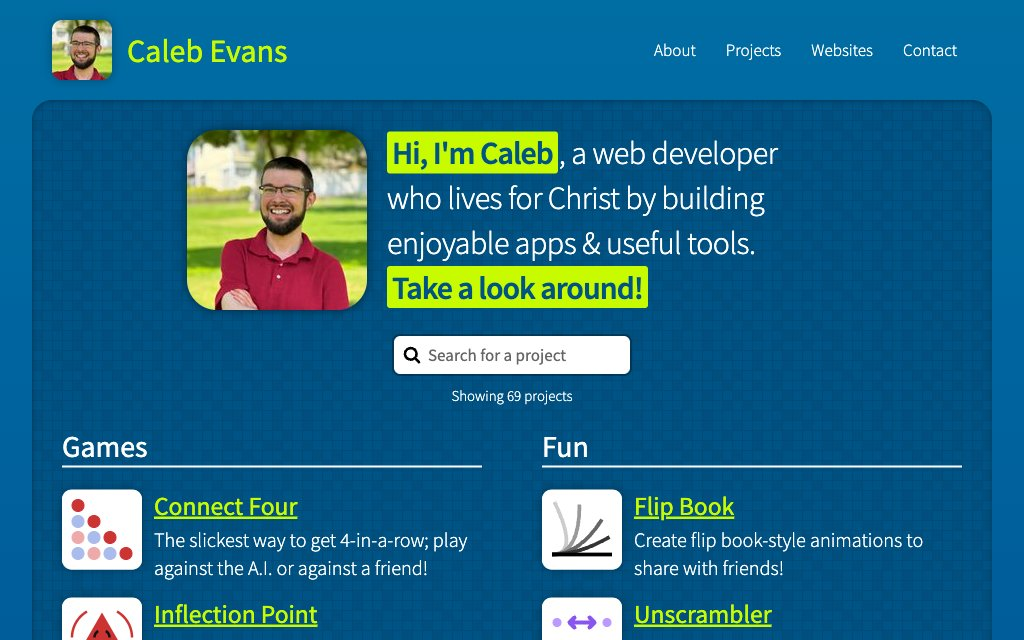
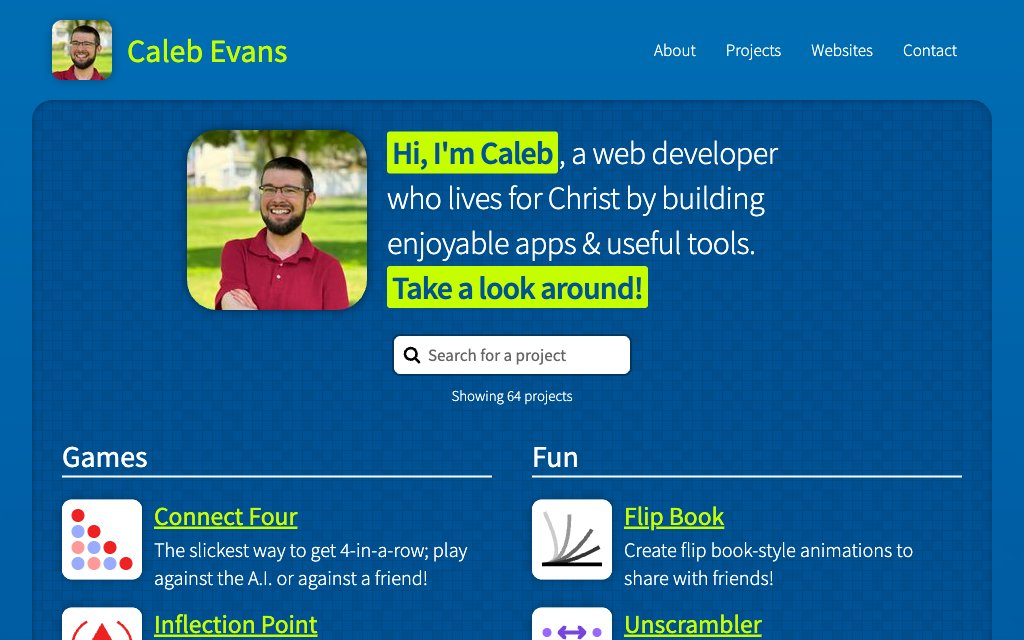
Update personal website screenshot with P3 colors
This required updating the screenshot utility to enable P3 colors on
visited pages.

Changed region(s): [[0.0312, 0.6875, 0.4688, 1.0], [0.5, 0.6875, 0.9375, 1.0], [0.5, 0.5938, 0.5312, 0.625]]

diff --git a/utilities/screenshot-websites.ts b/utilities/screenshot-websites.ts
@@ -36,6 +36,13 @@ async function generateScreenshots(websiteConfigFilePaths: string[]): Promise<vo
       );
 
       const page = await browser.newPage();
+      // Enable P3 colors
+      await page.emulateMediaFeatures([
+        {
+          name: 'color-gamut',
+          value: 'p3'
+        }
+      ]);
       await page.setViewport({
         width: VIEWPORT_WIDTH,
         height: VIEWPORT_HEIGHT
